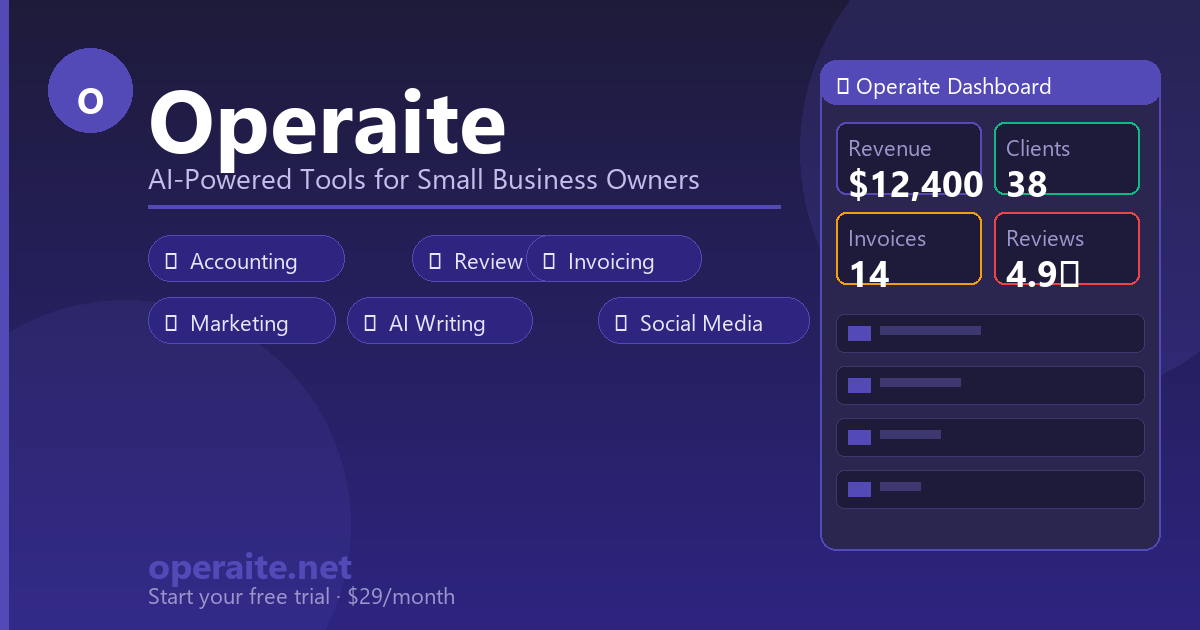
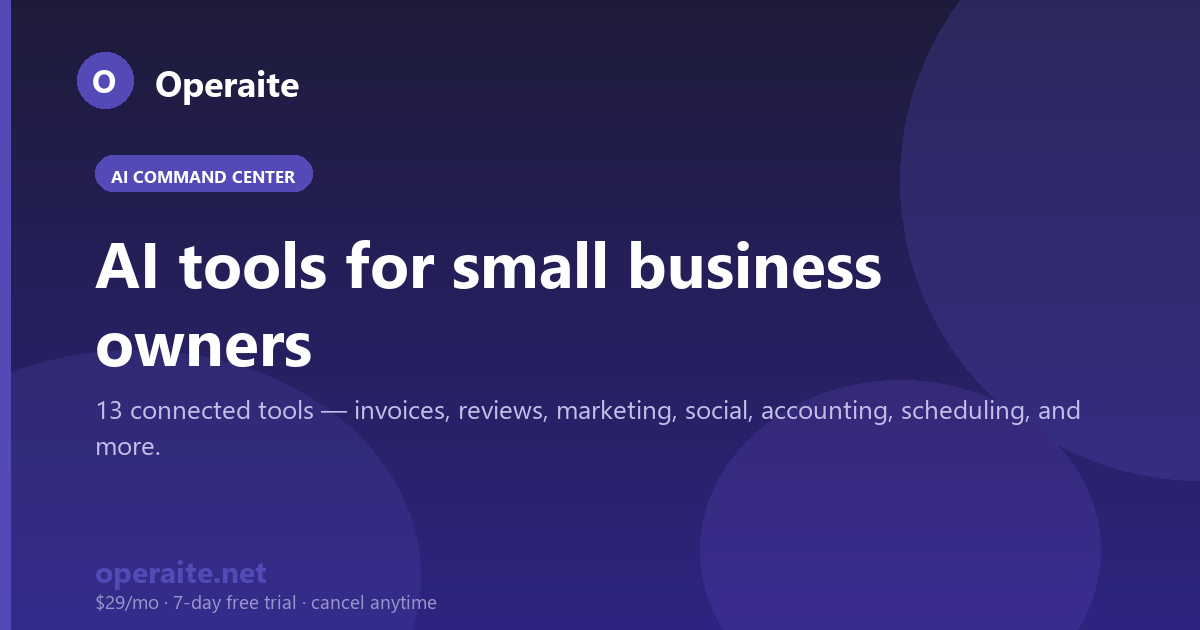
seo: refresh homepage og-image to match new template
Homepage og-image.png was the old "dashboard mock + feature pills"
design from generate_og.py. Refreshed to match the clean per-page
template (purple gradient, badge + big title + subtitle + brand footer)
so all 22 social cards across the site share visual consistency.

Homepage HTML already references /og-image.png so no meta-tag changes
needed — just a new image at the same path.

Added homepage entry to generate_og_pages.py so it's in the same source
of truth as every other page. Kept the legacy generate_og.py around in
case the old design is wanted again later.

diff --git a/generate_og_pages.py b/generate_og_pages.py
@@ -141,6 +141,12 @@ def make_og(out_path, badge, title, subtitle, fonts):
 
 # ---------- Page list ----------
 PAGES = [
+    # Homepage
+    ('og-image.png',
+        'AI COMMAND CENTER',
+        'AI tools for small business owners',
+        '13 connected tools — invoices, reviews, marketing, social, accounting, scheduling, and more.'),
+
     # Tools
     ('tools/og.png',
         'FREE TOOLS',
